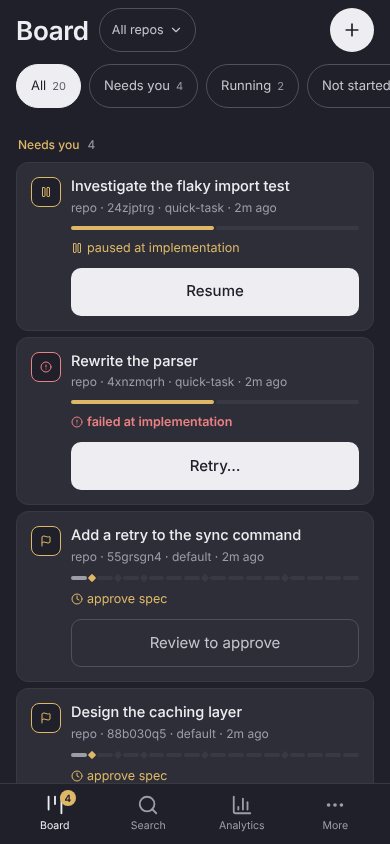
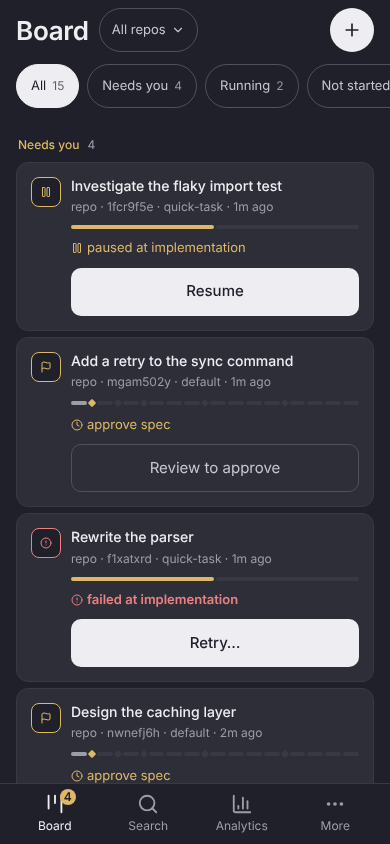
Retake the README and docs screenshots (round 2) (#830)
Claude-Session: https://claude.ai/code/session_01H3bMYCbPjAuAJRaRo99JBc

diff --git a/frontend/README.md b/frontend/README.md
@@ -239,15 +239,15 @@ Retake the ones whose screen changed, and all of them when a release is cut:
 
 | File | Size | Shows |
 |---|---|---|
-| `board.png` | 1440×700 | the board, grouped by status, with a Select all link on each group and the `?` shortcuts button in the toolbar: Needs you (paused, failed and two gates, each with its one button), Running, Not started, and the top of Done |
-| `gate.png` | 1440×700 | a work item at `spec_approval`: the review page headed Approve spec, with Request changes and Approve, the consequence line (what approving starts, gates left, spend) and the gate's spec rendered |
+| `board.png` | 1440×700 | the board, grouped by status, with a Select all link on each group and the `?` shortcuts button in the toolbar: Needs you (paused, failed and two gates, each with its one button), Running, Not started (rows marked `created paused`), and the top of Done |
+| `gate.png` | 1440×700 | a work item at `spec_approval`: the review page headed Approve spec, with the Waiting for you mark, Request changes and Approve, the consequence line (what approving starts, gates left, spend) and the gate's spec rendered |
 | `search.png` | 1440×700 | Ctrl/⌘K with `caching` typed: an item and two documents, over the board |
 | `item.png` | 1440×700 | the same item's page, with the `spec_approval` gate selected: a Review and decide banner, the chain as a graph fitted beside the inspector, folded into pills (chain_revision) with a +N cue for what lies past the edge, and the inspector with the gate's files, open thread, what it decides on, and Read spec.md, Review changes, Approve and Reject… |
-| `review.png` | 1440×700 | the review page of that item on `calc.py`, with a comment being written on lines −2 to +2 (the removed line and its replacement), Must fix selected |
+| `review.png` | 1440×700 | the review page of that item on `calc.py`, with a comment being written on the removed line and its replacement (the composer reads "Old 2 – new 2"), Must fix selected, over the Your review bar with Request changes, Approve and Finish review |
 | `analytics.png` | 1440×660 | the Analytics page: the Range, Repo and Chain menus, the four overview figures, Throughput by week, the Waiting at each gate table and the top of By node (times under a minute read `<1 min`) |
-| `chains.png` | 1440×700 | Templates › Chains on the `default` chain, with the `spec_approval` gate selected and its settings in the inspector |
-| `policy.png` | 1440×700 | Settings › Policy on its Limits section |
-| `setup.png` | 1440×700 | the setup wizard's first step, on a home with no repo connected |
+| `chains.png` | 1440×700 | Templates › Chains on the `default` chain, published, with the `spec_approval` gate selected and its Overview, Config and YAML tabs in the inspector |
+| `policy.png` | 1440×700 | Settings › Policy on its Limits tab, beside the Loops and Housekeeping tabs |
+| `setup.png` | 1440×700 | the setup wizard's first step, on a home with no repo connected; its intro says the first work item is created paused |
 | `mobile.png` | 390×844 | the board in the phone layout: a paused and a failed card, and a gate card whose Review to approve button opens its review |
 
 All are the default look (graphite, dark, no accent), of a repo named `repo`
@@ -420,7 +420,7 @@ variables on each one.**
 
    The `review` steps are the contract suite's range pick
    (`e2e/contract/review.spec.ts`) pointed at `calc.py`; check the composer
-   header reads "Lines −2 to +2" before you save the frame. `?file=calc.py`
+   header reads "Old 2 – new 2" before you save the frame. `?file=calc.py`
    shows that file alone; if your frame shows two columns, change the diff
    settings (Inline) before the shot.
 

diff --git a/README.md b/README.md
@@ -13,7 +13,9 @@ Kraft isn't another coding agent. It runs the one you already use, and adds
 what a single session can't: a process the agent can't skip, checks it doesn't
 grade itself on, and a person at the decisions that matter.
 
-Hand Kraft a task and walk away. Your agent drafts the spec and the plan and
+Hand Kraft a task, start it and walk away. A new work item is filed paused,
+in the web interface, on a phone and from the CLI alike, so nothing runs until
+you start it. Your agent drafts the spec and the plan and
 stops for your approval of each, or starts from a spec you wrote. It's for
 developers tired of babysitting a session to the end of a task.
 
@@ -29,7 +31,7 @@ proposes, and rehearses them with `--verify`.
 [What's new in 2.0](https://kraft-sdlc.dev/next/get-started/whats-new)
 has the rest, and what to check before you upgrade from 1.4.
 
-![The Kraft board in the dark graphite look: work items grouped by Needs you (a paused item with Resume, a failed one with Retry, and two waiting at a gate, each with its one button), Running, Not started, and Done, with a Select all link on every group and a ? shortcuts button in the toolbar](https://raw.githubusercontent.com/itsOmidKarami/kraft/main/.github/assets/board.png)
+![The Kraft board in the dark graphite look: work items grouped by Needs you (a paused item with Resume, a failed one with Retry, and two waiting at a gate, each with its one button), Running, Not started, and Done, the unstarted items marked created paused, with a Select all link on every group and a ? shortcuts button in the toolbar](https://raw.githubusercontent.com/itsOmidKarami/kraft/main/.github/assets/board.png)
 
 - **Gates where a human decides.** Kraft pauses at a spec, a plan, or a merge
   request for your approval; reject with a note and the node that wrote it
@@ -51,7 +53,7 @@ New here? [Why Kraft](https://kraft-sdlc.dev/get-started/why-kraft) covers what 
 **A gate stops the chain where a human decides.** Read what the agent wrote,
 then approve, or request changes with a note that re-runs the node that wrote it.
 
-![The gate's review page headed Approve spec: Request changes and Approve buttons, a line saying Approving starts plan with the gates left and the spend, the spec an agent wrote rendered below, and the files on the branch with one pending comment](https://raw.githubusercontent.com/itsOmidKarami/kraft/main/.github/assets/gate.png)
+![The gate's review page headed Approve spec: Request changes and Approve buttons in the header, a Waiting for you mark, a line saying Approving starts plan with the gates left and the spend, the spec an agent wrote rendered below, and the files on the branch with one pending comment](https://raw.githubusercontent.com/itsOmidKarami/kraft/main/.github/assets/gate.png)
 
 <table>
 <tr>
@@ -160,7 +162,9 @@ from 1.4? Update with `uv tool install`, not `kraft admin update`: see
 
 ## First run
 
-Open http://127.0.0.1:8765, then follow the
+Open http://127.0.0.1:8765. With no repo connected, a short setup walks you
+through connecting one, the chain and policy, and a first work item, which is
+created paused. Then follow the
 [first-work-item tutorial](https://kraft-sdlc.dev/get-started/first-work-item)
 to file your first work item.
 

diff --git a/docsite/content/5.reference/00.web-ui/6.templates-and-settings.md b/docsite/content/5.reference/00.web-ui/6.templates-and-settings.md
@@ -20,7 +20,7 @@ group is only the ones an agent or a check is working on now.
 
 **Chains** draws a chain as a graph, picked from the menu beside **Chains**.
 
-![The Chains screen on the default chain: its nodes as a graph, with the spec_approval gate selected and the inspector on the right showing the gate's message, document and reject-to node](/assets/chains.png)
+![The Chains screen on the default chain: its nodes as a graph, with the spec_approval gate selected and the inspector on the right, with Overview, Config and YAML tabs, showing the gate's message, document and reject-to node, and the header marking the chain published](/assets/chains.png)
 
 - Click a [node](/concepts/vocabulary#node) to see and change its settings in [the inspector](/reference/web-ui/item-page#the-inspector); double-click it
   to open its own view of steps and tasks. There, the strip above the steps names every node of the stage
@@ -149,7 +149,7 @@ profiles tasks pick a model by. Each lane groups its tasks under their chain. **
 - **Loops**: fix-loop defaults, findings and stuck-item handling. Where a loop's attempts or wall clock are set in more than one place, the most specific wins: an item's own policy, then the loop's own keys, then its node, then its `loops:` entry.
 - **Housekeeping**: concurrency, relaunches, archive, the [forge](/concepts/vocabulary#forge) timeout, and the worktree storage **limit** and **quota** (a size such as `10G`; blank is off, and a blank quota is 80% of the limit). **Automatic clean-up** takes an age in hours or days (`24h`, `2d`); blank is off.
 
-![The Policy screen on its Limits section: the instance's daily dollar cap, then the work item, node and step scopes, each with a default and a maximum](/assets/policy.png)
+![The Policy screen on its Limits tab, beside Loops and Housekeeping: the instance's daily dollar cap, then the work item, node and step scopes, each with a default and a maximum](/assets/policy.png)
 
 See [Caps and budgets](/concepts/caps-and-budgets).
 

diff --git a/docsite/content/5.reference/00.web-ui/5.review-page.md b/docsite/content/5.reference/00.web-ui/5.review-page.md
@@ -5,7 +5,7 @@ description: The review page's Compare toolbar, Viewed marks, line comments and 
 
 The review page shows an item's diff with a bar along the bottom that holds your review. This page names its parts: comparing, marking files viewed, commenting on a line, finishing a review and the page at a [gate](/concepts/vocabulary#gate). For what each outcome does, see [Reviewing a change](/guides/day-to-day/review-a-change).
 
-![The review page: the file tree on the left, a pending thread on the whole change above a diff of calc.py, and a comment being written on the removed line and its replacement with Must fix selected, above the Your review bar with Finish review](/assets/review.png)
+![The review page: the file tree on the left, a pending thread on the whole change above a diff of calc.py, and a comment being written on the removed line and its replacement (Old 2 – new 2) with Must fix selected, above the Your review bar with Request changes, Approve and Finish review](/assets/review.png)
 
 **Review changes** opens the review page at `/work-items/<id>/review`. You can
 open it at any point in the item's life, not only at a gate. The file tree is

diff --git a/docsite/content/1.get-started/2.first-work-item.md b/docsite/content/1.get-started/2.first-work-item.md
@@ -193,7 +193,7 @@ While it runs, `kraft view list` shows its status and node. To watch it work,
 open the board in your browser, or run `kraft view watch` in a third terminal. `watch` takes no ID, redraws a live board on every event, and
 holds its terminal until you press Ctrl-C. The web board looks like this:
 
-![The Kraft board in the dark graphite look: work items grouped by Needs you (a paused item with Resume, a failed one with Retry, and two waiting at a gate, each with its one button), Running, Not started, and Done, with a Select all link on every group and a ? shortcuts button in the toolbar](/assets/board.png)
+![The Kraft board in the dark graphite look: work items grouped by Needs you (a paused item with Resume, a failed one with Retry, and two waiting at a gate, each with its one button), Running, Not started, and Done, the unstarted items marked created paused, with a Select all link on every group and a ? shortcuts button in the toolbar](/assets/board.png)
 
 The [Web UI](/reference/web-ui) reference describes each screen in the picture.
 

diff --git a/docsite/content/5.reference/00.web-ui/1.board.md b/docsite/content/5.reference/00.web-ui/1.board.md
@@ -5,7 +5,7 @@ description: The board's four groups, what the button on a row does, the filters
 
 The board lists every [work item](/concepts/vocabulary#work-item), grouped by what it needs from you. This page names its groups, a row's buttons, the filters, and the side panel that opens when you click a row.
 
-![The Kraft board in the dark graphite look: work items grouped by Needs you (a paused item with Resume, a failed one with Retry, and two waiting at a gate, each with its one button), Running, Not started, and Done, with a Select all link on every group and a ? shortcuts button in the toolbar](/assets/board.png)
+![The Kraft board in the dark graphite look: work items grouped by Needs you (a paused item with Resume, a failed one with Retry, and two waiting at a gate, each with its one button), Running, Not started, and Done, the unstarted items marked created paused, with a Select all link on every group and a ? shortcuts button in the toolbar](/assets/board.png)
 
 ## The groups
 

diff --git a/docsite/content/1.get-started/3.the-real-chain.md b/docsite/content/1.get-started/3.the-real-chain.md
@@ -75,7 +75,7 @@ the nodes still to run and proposes changes to them, and when it proposes none,
 which is usual, the gate passes without asking you. Each gate shows up under
 *Needs you* on the board. Open one to read the document it is about:
 
-![The gate's review page headed Approve spec: Request changes and Approve buttons, a line saying Approving starts plan with the gates left and the spend, the spec an agent wrote rendered below, and the files on the branch with one pending comment](/assets/gate.png)
+![The gate's review page headed Approve spec: Request changes and Approve buttons in the header, a Waiting for you mark, a line saying Approving starts plan with the gates left and the spend, the spec an agent wrote rendered below, and the files on the branch with one pending comment](/assets/gate.png)
 
 `kraft view artifact ID` reads the document the gate is about, and
 `kraft item approve ID` approves it, as **Approve** does at the gate on the

diff --git a/docsite/content/3.guides/1.day-to-day/2.first-run.md b/docsite/content/3.guides/1.day-to-day/2.first-run.md
@@ -14,7 +14,7 @@ With no repo connected, the board shows **Nothing on the board yet** and three
 setup steps. The header's **+ New work item** is there too, so you can file work
 without finishing them. Filing one ends the setup.
 
-![The setup wizard in place of the board: three steps, with Connect a repo open, a field for the path to a git checkout, and the list of what Kraft probes once you add it. The picture was taken from a dev instance, so its intro line names port 8766 where yours names 8765](/assets/setup.png)
+![The setup wizard in place of the board: three steps, with Connect a repo open, a field for the path to a git checkout, and the list of what Kraft probes once you add it, under an intro line saying the first work item is created paused. The picture was taken from a dev instance, so its intro line names port 8766 where yours names 8765](/assets/setup.png)
 
 ## 1. Connect a repo
 

diff --git a/docsite/content/index.md b/docsite/content/index.md
@@ -54,7 +54,7 @@ ui:
 :::landing-shot
 ---
 src: /assets/board.png
-alt: 'The Kraft board in the dark graphite look: work items grouped by Needs you (a paused item with Resume, a failed one with Retry, and two waiting at a gate, each with its one button), Running, Not started, and Done, with a Select all link on every group and a ? shortcuts button in the toolbar'
+alt: 'The Kraft board in the dark graphite look: work items grouped by Needs you (a paused item with Resume, a failed one with Retry, and two waiting at a gate, each with its one button), Running, Not started, and Done, the unstarted items marked created paused, with a Select all link on every group and a ? shortcuts button in the toolbar'
 crop: 210 0 1230 688
 width: 1440
 ---
